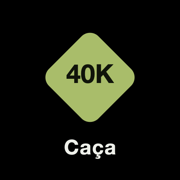
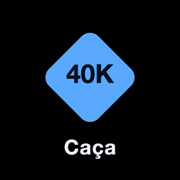
Cores: verde trocado por azul

Changed region(s): [[0.25, 0.1667, 0.75, 0.6944]]

diff --git a/index.html b/index.html
@@ -40,10 +40,10 @@
 <style>
 /* Layout: paleta do Boonie (preto, painéis grafite, oliva) num tom mais suave: cantos arredondados, texto em caixa normal, sem relógio nem bússola. Destaque com foto grande no topo, filtros em pílulas, cartões com foto em cima e dados embaixo, barra de abas fixa no rodapé. Tema único escuro, de propósito. */
 :root{
-  --bg:#000; --panel:#0e0f0d; --panel2:#151713; --line:#252822;
-  --olive:#a9bd6a; --olive-bg:#1a2110; --ok:#8fd14f; --ok-bg:#132011;
+  --bg:#000; --panel:#0d0f13; --panel2:#14171d; --line:#232833;
+  --olive:#5aa9ff; --olive-bg:#0f1e35; --ok:#4cc3ff; --ok-bg:#0c2233;
   --red:#e0442f; --red-ink:#ff8a78; --red-bg:#2a0f0a; --warn:#e6ad4c; --warn-bg:#2a1d08;
-  --cy:#6fd3ff; --txt:#eef0ea; --dim:#8b9283; --white:#ffffff;
+  --cy:#9fd8ff; --txt:#eef2f8; --dim:#8a93a5; --white:#ffffff;
   --f:-apple-system,BlinkMacSystemFont,"SF Pro Text","Helvetica Neue","Segoe UI",Roboto,Arial,sans-serif;
   --fd:-apple-system,BlinkMacSystemFont,"SF Pro Display","Helvetica Neue","Segoe UI",Roboto,Arial,sans-serif;
   --tab:60px; --r:16px;
@@ -95,7 +95,7 @@ main{max-width:1080px;margin-inline:auto;padding-block:18px calc(var(--tab) + 32
 .scroller .b{flex:none}
 .frow2{display:flex;gap:8px;align-items:center;justify-content:space-between}
 .frow2 select{min-width:0}
-.fbtn .n{background:var(--olive);color:#10140a;border-radius:999px;font-size:11px;padding:0 6px;line-height:17px}
+.fbtn .n{background:var(--olive);color:#06111f;border-radius:999px;font-size:11px;padding:0 6px;line-height:17px}
 .fbtn .n:empty{display:none}
 .panel{background:var(--panel);border:1px solid var(--line);border-radius:var(--r);padding:14px;display:flex;flex-direction:column;gap:10px}
 .seg{display:grid;grid-template-columns:repeat(4,minmax(0,1fr));gap:2px;background:var(--panel2);border-radius:12px;padding:3px}
@@ -139,8 +139,8 @@ main{max-width:1080px;margin-inline:auto;padding-block:18px calc(var(--tab) + 32
 
 /* botões e filtros */
 .b{padding:9px 16px;background:var(--panel2);border:1px solid var(--line);color:var(--txt);border-radius:999px;font-size:13.5px;font-weight:600;cursor:pointer;text-decoration:none;display:inline-flex;align-items:center;gap:6px;white-space:nowrap;transition:background .15s,border-color .15s,color .15s}
-.b:hover{border-color:#3a3e35}
-.b.pri{background:var(--olive);border-color:var(--olive);color:#10140a}
+.b:hover{border-color:#3a4252}
+.b.pri{background:var(--olive);border-color:var(--olive);color:#06111f}
 .b.pri:hover{filter:brightness(1.06)}
 .b[aria-pressed="true"]:not(.pri){background:var(--olive-bg);border-color:color-mix(in srgb,var(--olive) 55%,transparent);color:var(--olive)}
 .b.sm{padding:7px 13px;font-size:13px}
@@ -151,7 +151,7 @@ select.b{appearance:none;-webkit-appearance:none;padding-right:30px;background-i
 /* cartões */
 .cars{display:grid;grid-template-columns:repeat(auto-fill,minmax(300px,1fr));gap:14px}
 .card{border:1px solid var(--line);background:var(--panel);border-radius:var(--r);overflow:hidden;display:flex;flex-direction:column;min-width:0;transition:border-color .15s}
-.card:hover{border-color:#34382f}
+.card:hover{border-color:#333b4a}
 .card.cur{border-color:color-mix(in srgb,var(--olive) 70%,transparent)}
 .card.off{opacity:.5}
 .card .body{padding:14px 16px 16px;display:flex;flex-direction:column;gap:12px;flex:1}
